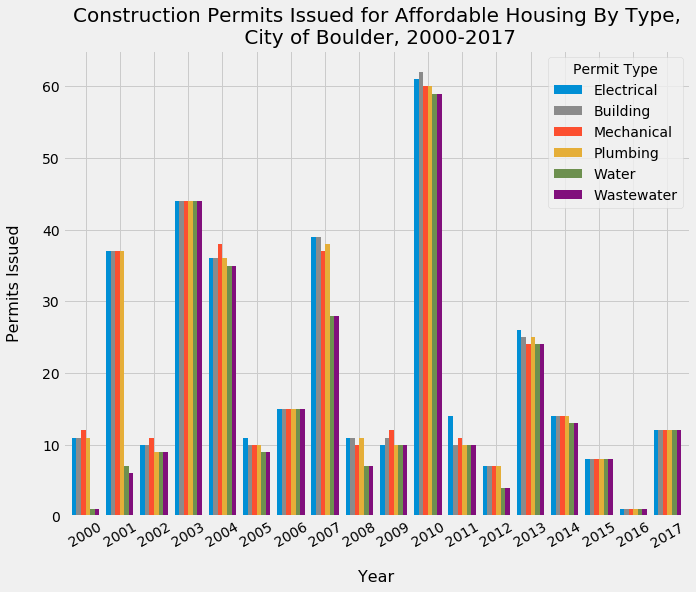
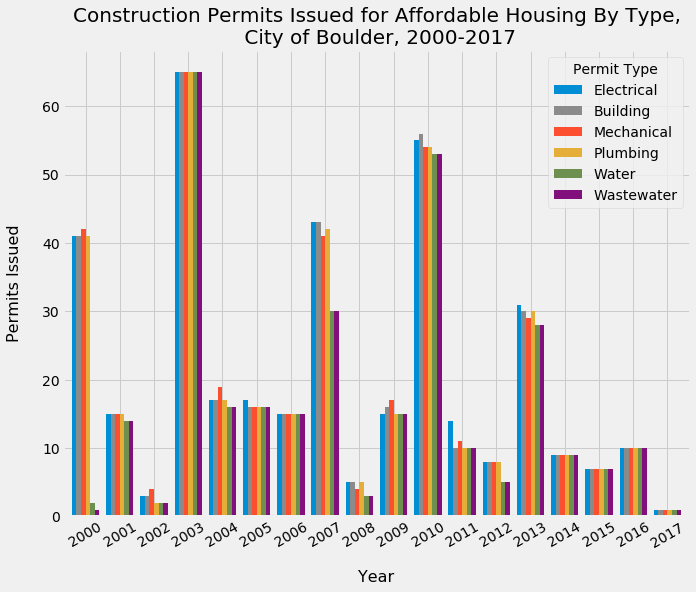
revise plots

diff --git a/permits.html b/permits.html
@@ -36,7 +36,7 @@
 									<div class="row">
 										<h3>Permit Volume</h3>
 										<a href="#" class="image fit"><img src="images/permits_total.png" alt=""></a>
-										<p>Among the six most prevelant permit types in the affordable housing permit subset, annual counts tend to track together, suggesting that permits are often multifaceted projects involving many different kinds of work.</p>
+										<p>Permit volume for affordable housing projects does not follow the pattern of permits overall in behavior or scale. Of the X permits in the database from 2000-2017, 422 are labeled as affordable housing-related permits. Approximately 12 out of the 6000 permits listed in 2017 were related to affordable housing. Affordable housing permits vary substantially from year to year, whereas overall permit applications have been increasing. However, all 422 affordable housing permits in the permit database were ultimately issued. </p>
 									</div>
 									<div class="row">
 										<h3>Value By Type</h3>
